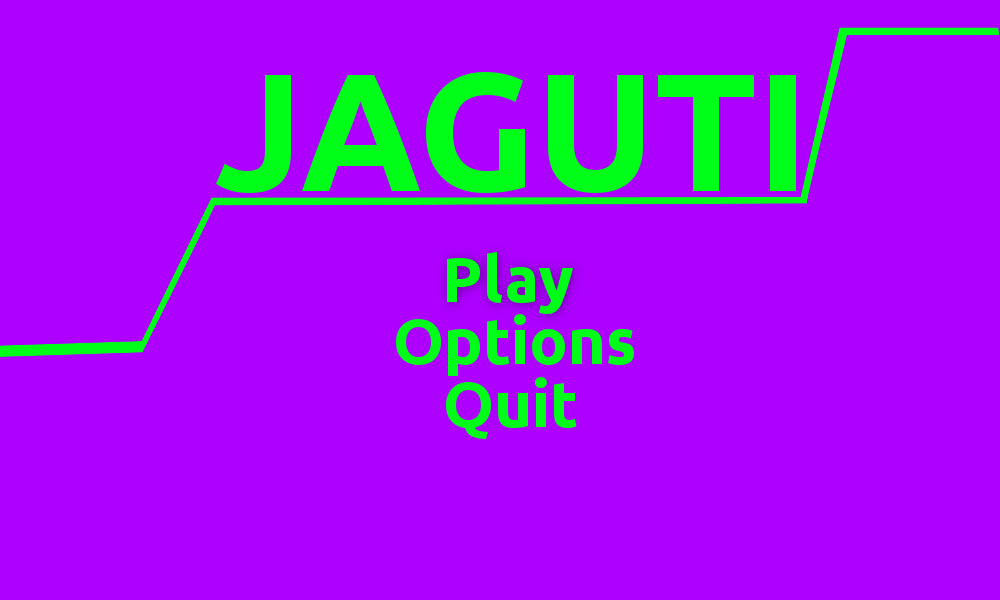
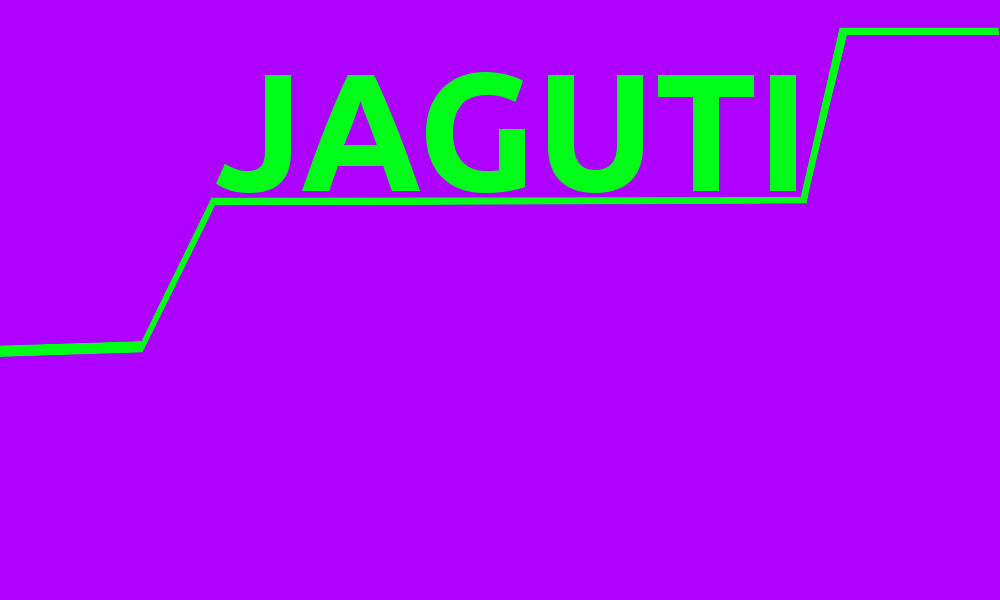
Added individual menu button images

Changed region(s): [[0.372, 0.42, 0.651, 0.75]]

diff --git a/main.cpp b/main.cpp
@@ -34,14 +34,28 @@ int main ()
 	}
 	
 	background = loadImage("./concept-Art/background_for_testing.png"); /* Load background */
+	play = loadImage("./concept-Art/Play.png"); /* Load the play button */
+	options = loadImage("./concept-Art/options.png"); /* Load the options button */
+	quit = loadImage("./concept-Art/quit.png"); /* Load the quit button */
+
+	SDL_WM_SetCaption("Jaguti", NULL);     /* Set the window title */
 
 	SDL_BlitSurface( background, NULL, window, NULL ); /* Apply image to screen */
 
 	SDL_Flip( window );                     /* Update screen */
 
-	SDL_Delay( 5000 ); /* Wait for 3 seconds */
+	applySurface( 450, 250, play, window ); /* Apply the play button the the window */
+	applySurface( 400, 325, options, window ); /* Apply the options button to the window */
+	applySurface( 450, 400, quit, window ); /* Apply the quit button to the window */
 
+	SDL_Flip( window );                     /* Update screen */
+
+	SDL_Delay( 5000 ); /* Wait for 3 seconds */
+	
 	SDL_FreeSurface(background);            /* Free the background from memory */
+	SDL_FreeSurface(play);                  /* Free the play button from memory */
+	SDL_FreeSurface(options);               /* Free the options button from memory */
+	SDL_FreeSurface(quit);                  /* Free the quit button from memory */
 	SDL_Quit();                             /* Quit SDL and  */
 	return EXIT_SUCCESS;
 }				/* ----------  end of function main  ---------- */

diff --git a/main.h b/main.h
@@ -28,6 +28,9 @@
 // Declare the surfaces
 SDL_Surface* window = NULL;
 SDL_Surface* background = NULL;         /* Declare the background */
+SDL_Surface* play = NULL;                       /* Declare the menu's play button*/
+SDL_Surface* options = NULL;                    /* Declare the menu's options button */
+SDL_Surface* quit = NULL;                       /* Declare the menu's quit button */
 
 // Declare functions
 int drawScreen();       /* Draw the window */
@@ -46,8 +49,25 @@ SDL_Surface *loadImage( std::string filename )
 		perror("IMG_Load");
 		return NULL;
 	}
-	postImage = SDL_DisplayFormat(preImage); /* Create the optimized image */
+	postImage = SDL_DisplayFormatAlpha(preImage); /* Create the optimized image */
 	SDL_FreeSurface(preImage);              /* Free the original image from memory */
 
 	return postImage;                       /* Return the optimized image */
+}
+
+bool applySurface( int x, int y, SDL_Surface* src, SDL_Surface* dest )
+{
+	SDL_Rect offset;                        /* Rectangle to hold the offsets */
+
+	// Pass the offsets to the rectangle's offsets
+	offset.x = x;
+	offset.y = y;
+
+	if( SDL_BlitSurface( src, NULL, dest, &offset ) != 0 )
+	{
+		perror("SDL_BlitSurface");
+		return false;
+	}
+	
+	return true;
 }
